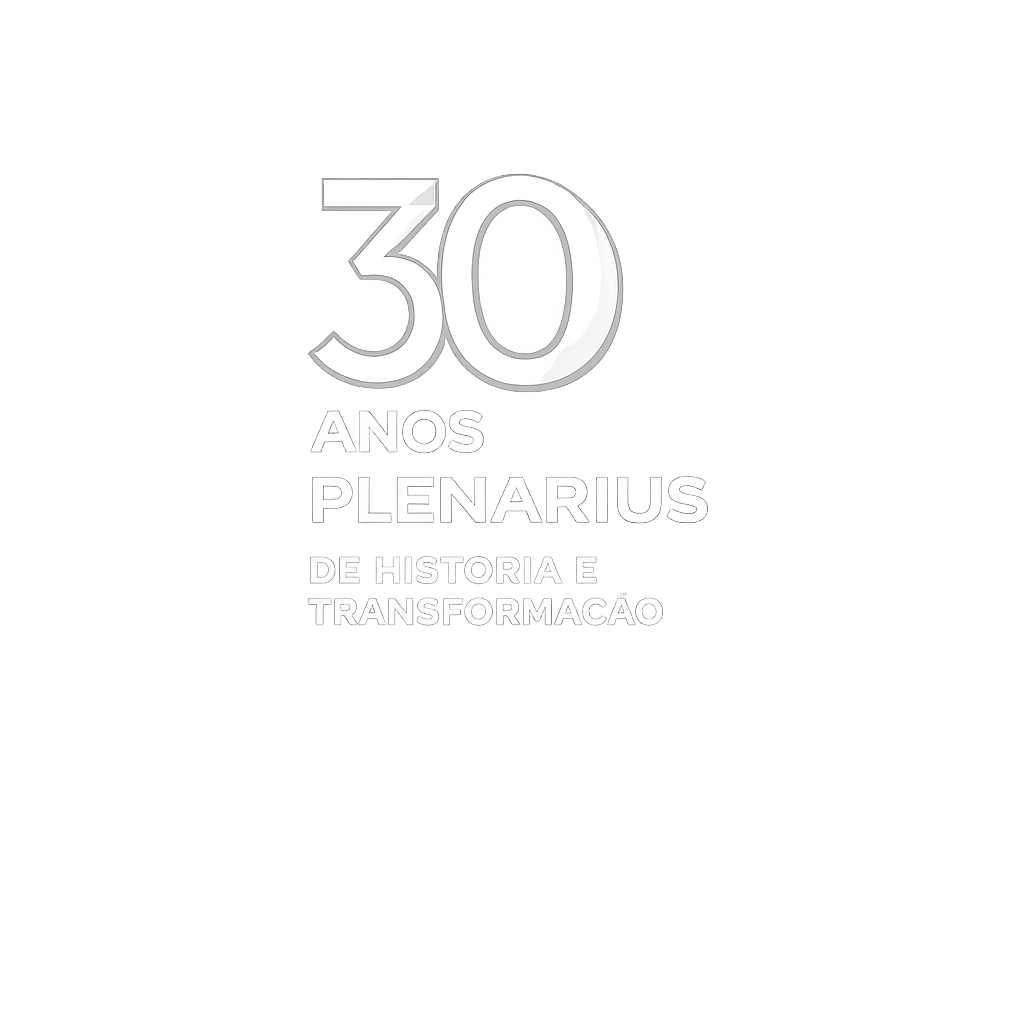
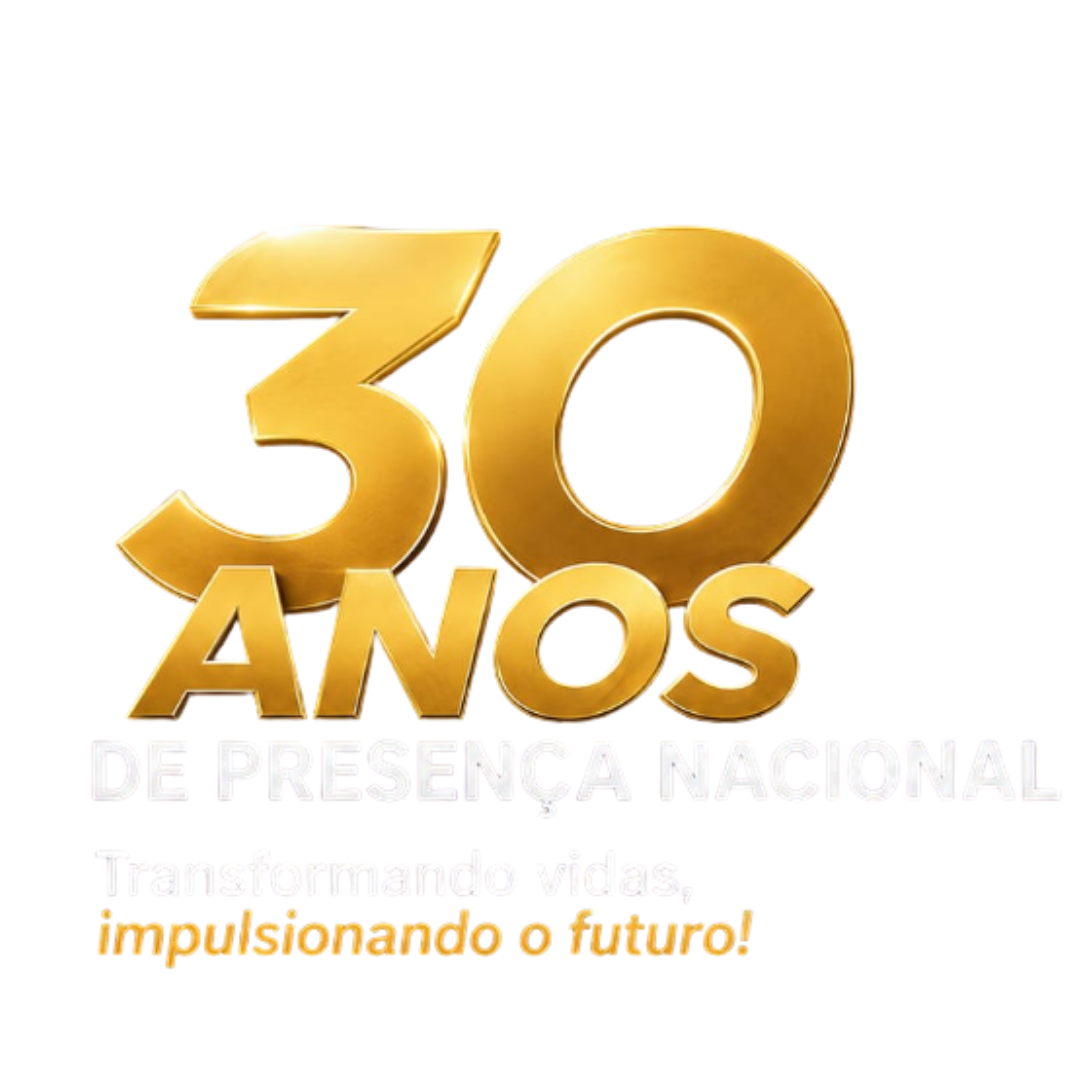
Replace login anniversary artwork asset

Changed region(s): [[0.0938, 0.1562, 0.8125, 0.6875], [0.0938, 0.8438, 0.7188, 0.9062]]

diff --git a/src/routes/login.tsx b/src/routes/login.tsx
@@ -72,7 +72,7 @@ function LoginPage() {
             <img src={plenariusLogo} alt="Plenarius" className="h-20 w-auto object-contain" />
           </div>
           <div className="max-w-xl pb-4 pt-8 md:pt-10">
-            <div className="pointer-events-none relative -ml-28 -mb-28 mt-2 w-[420px] max-w-none md:-ml-48 md:-mb-48 md:w-[640px]">
+            <div className="pointer-events-none relative -ml-4 -mb-28 mt-2 w-[420px] max-w-none md:-ml-12 md:-mb-48 md:w-[640px]">
               <img
                 src={anniversary30}
                 alt="30 anos Plenarius"